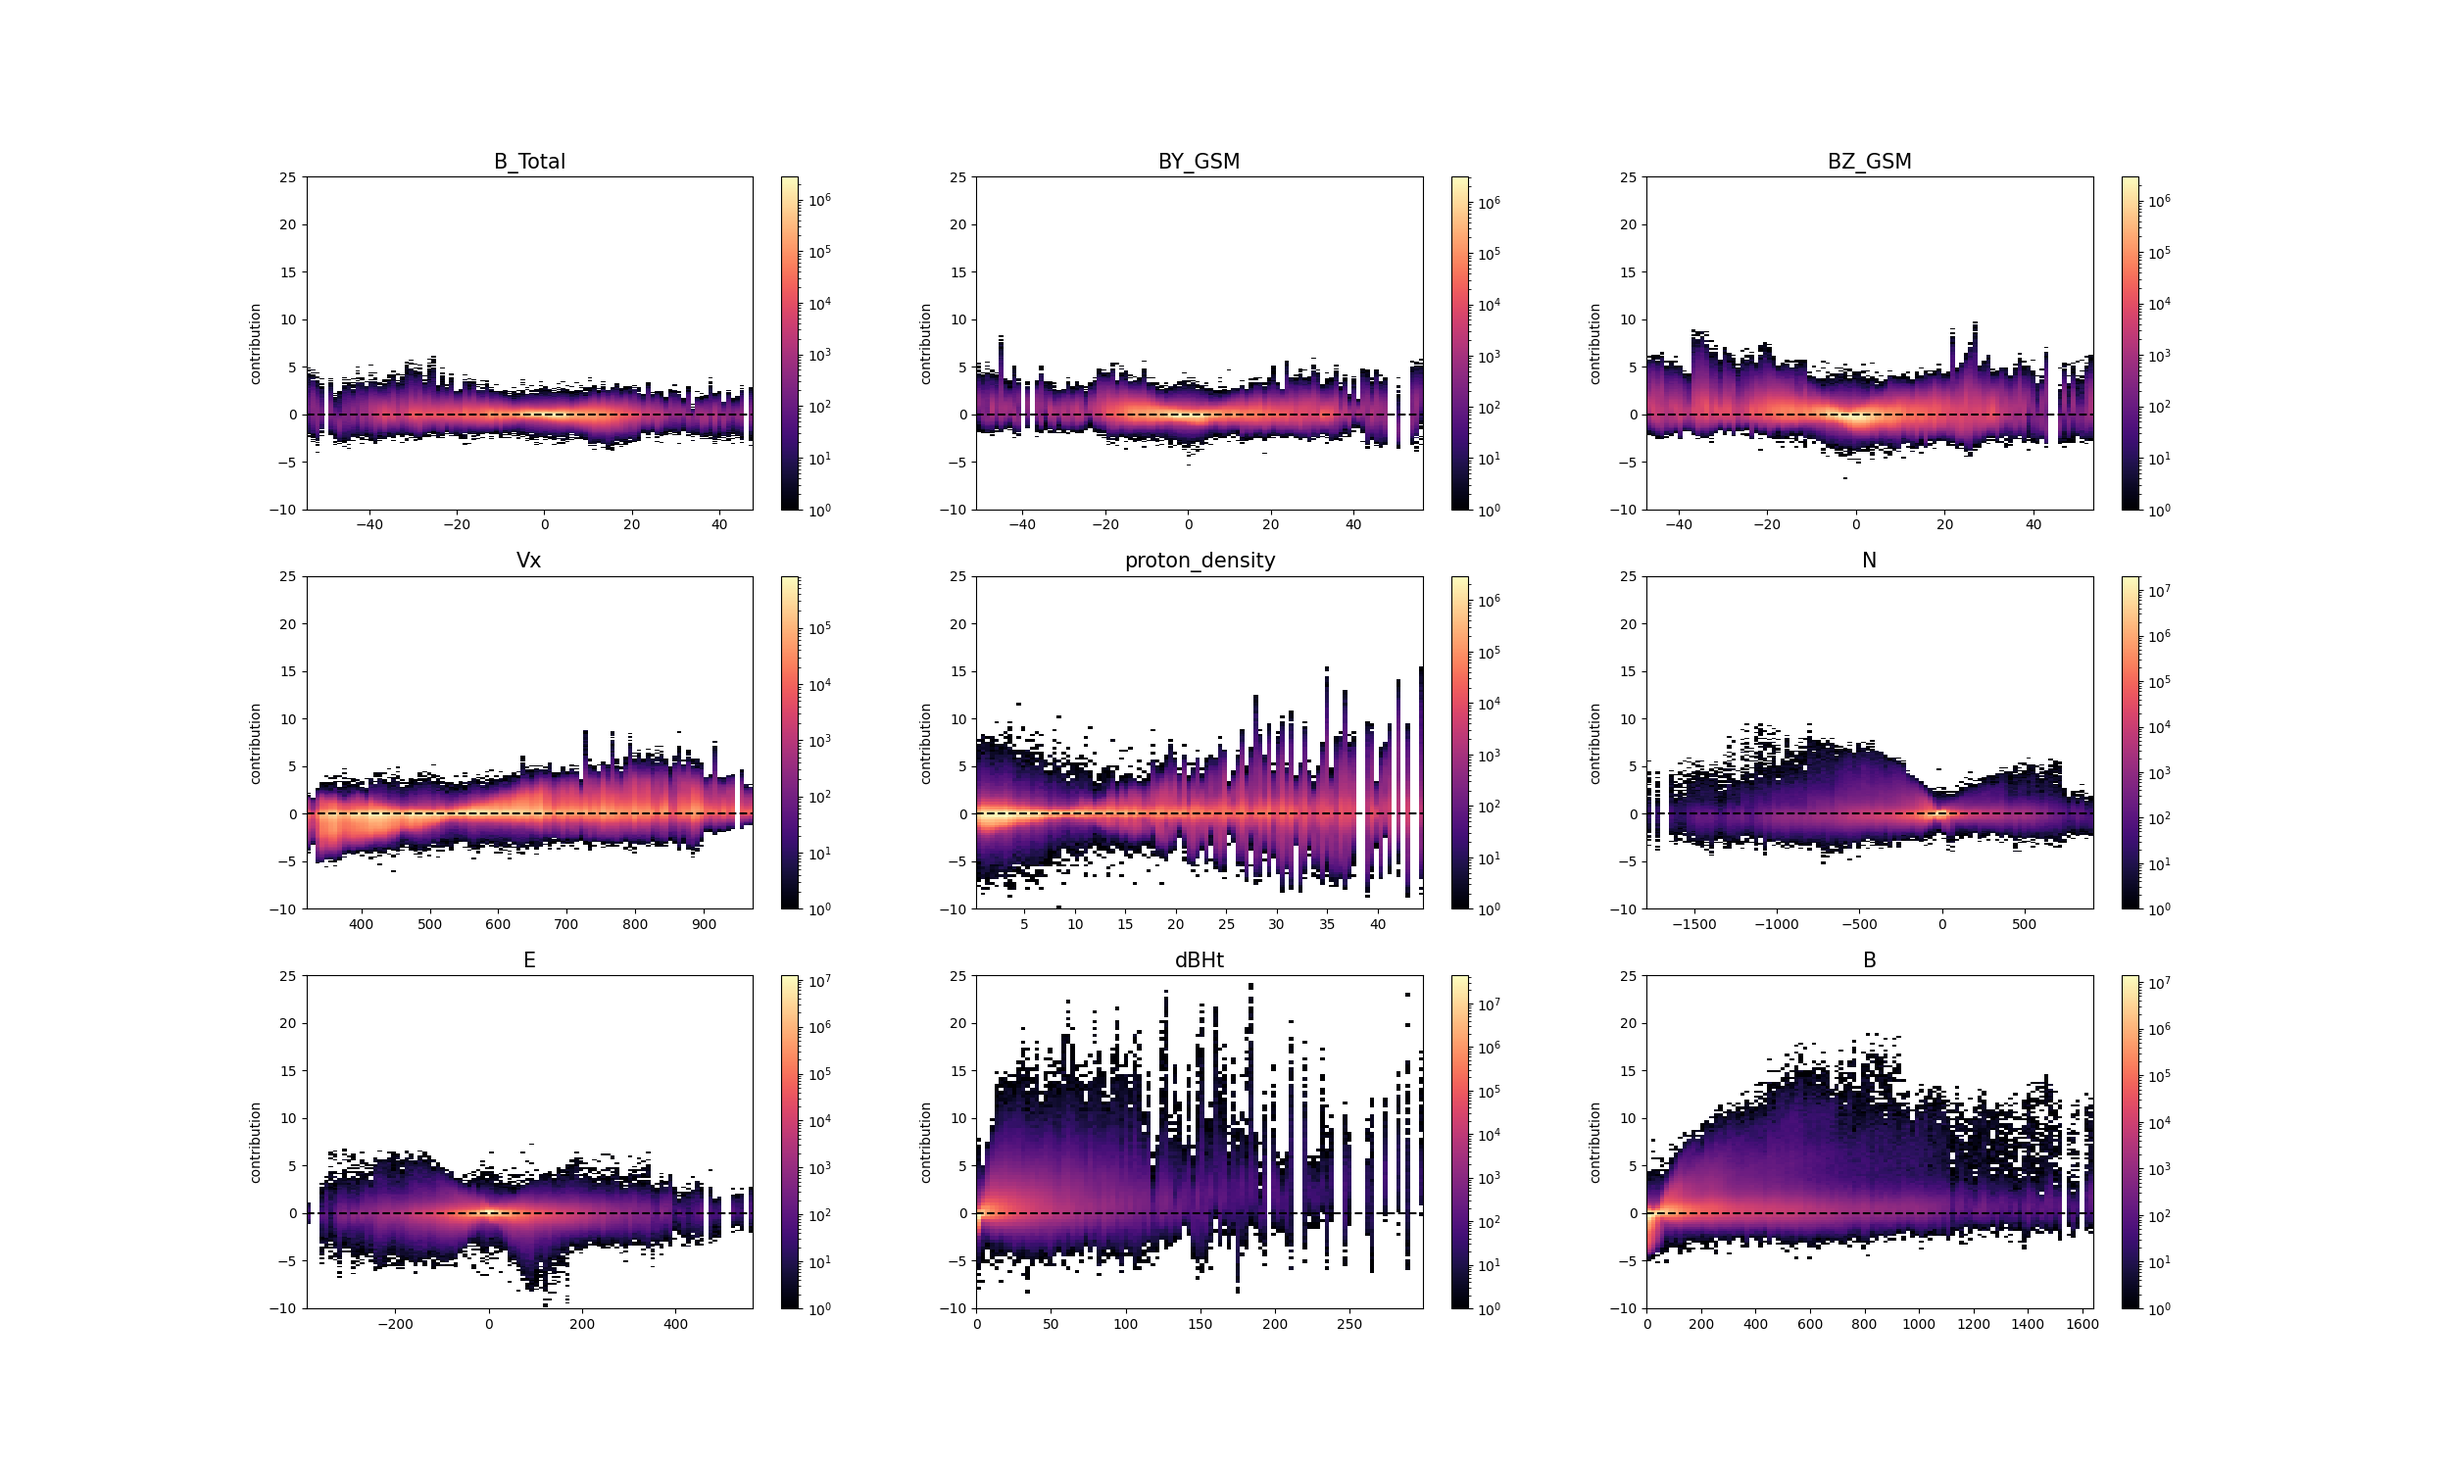
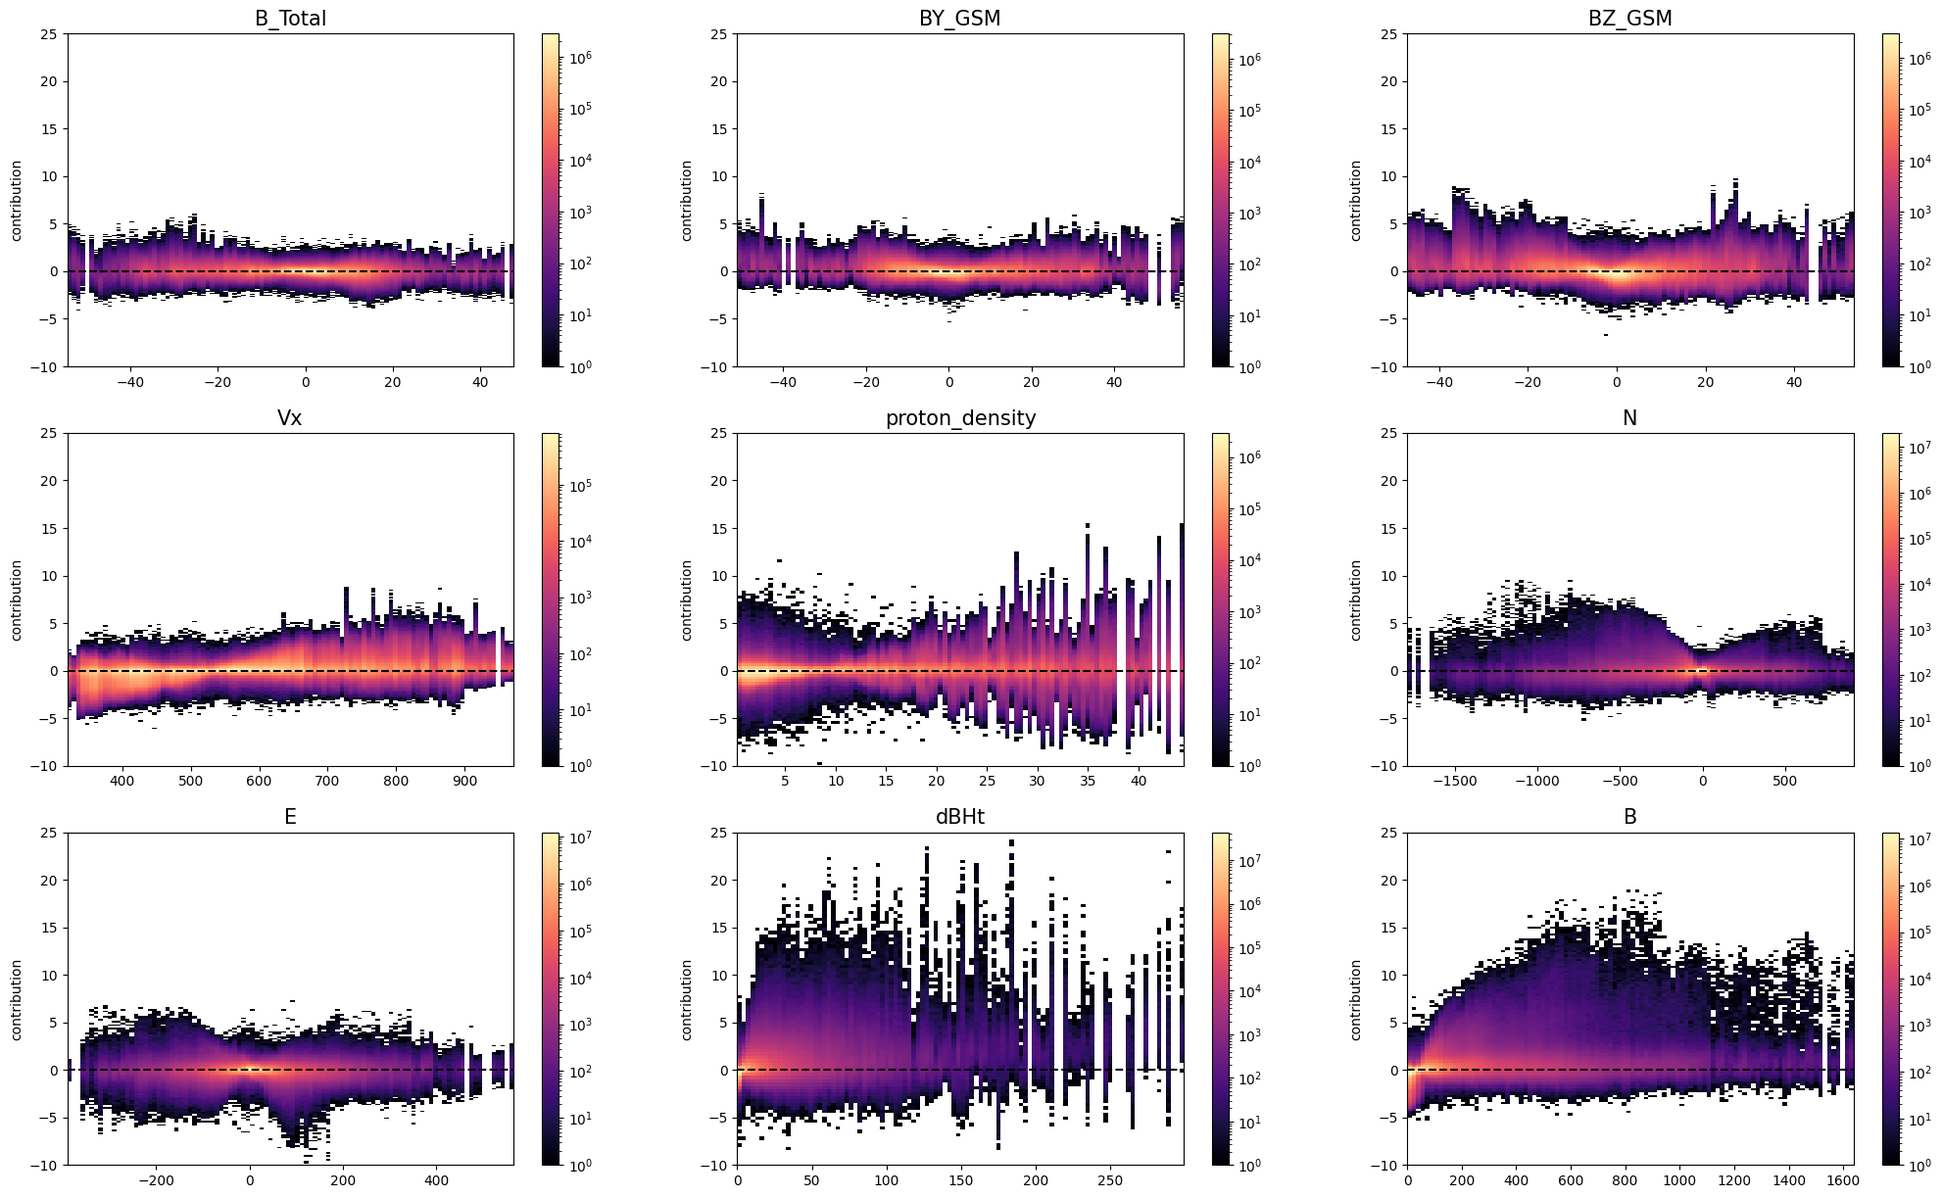
adjusting feature importance plots

diff --git a/shap_feature_contributions.py b/shap_feature_contributions.py
@@ -111,7 +111,7 @@ for i, feat in enumerate(plotting_feature):
 	plt.ylim(-10,25)
 	plt.ylabel('contribution')
 
-plt.savefig('plots/shap/combined_feature_contributions.png')
+plt.savefig('plots/shap/combined_feature_contributions.png', bbox_inches='tight')
 
 
 sw_plotting_feature = ["B_Total", "BY_GSM", "BZ_GSM", "Vx", "proton_density"]
@@ -132,4 +132,4 @@ for i, feat in enumerate(sw_plotting_feature):
 	plt.ylim(-10,25)
 	plt.ylabel('contribution')
 
-plt.savefig('plots/shap/sw_feature_contributions.png')
+plt.savefig('plots/shap/sw_feature_contributions.png', bbox_inches='tight')
